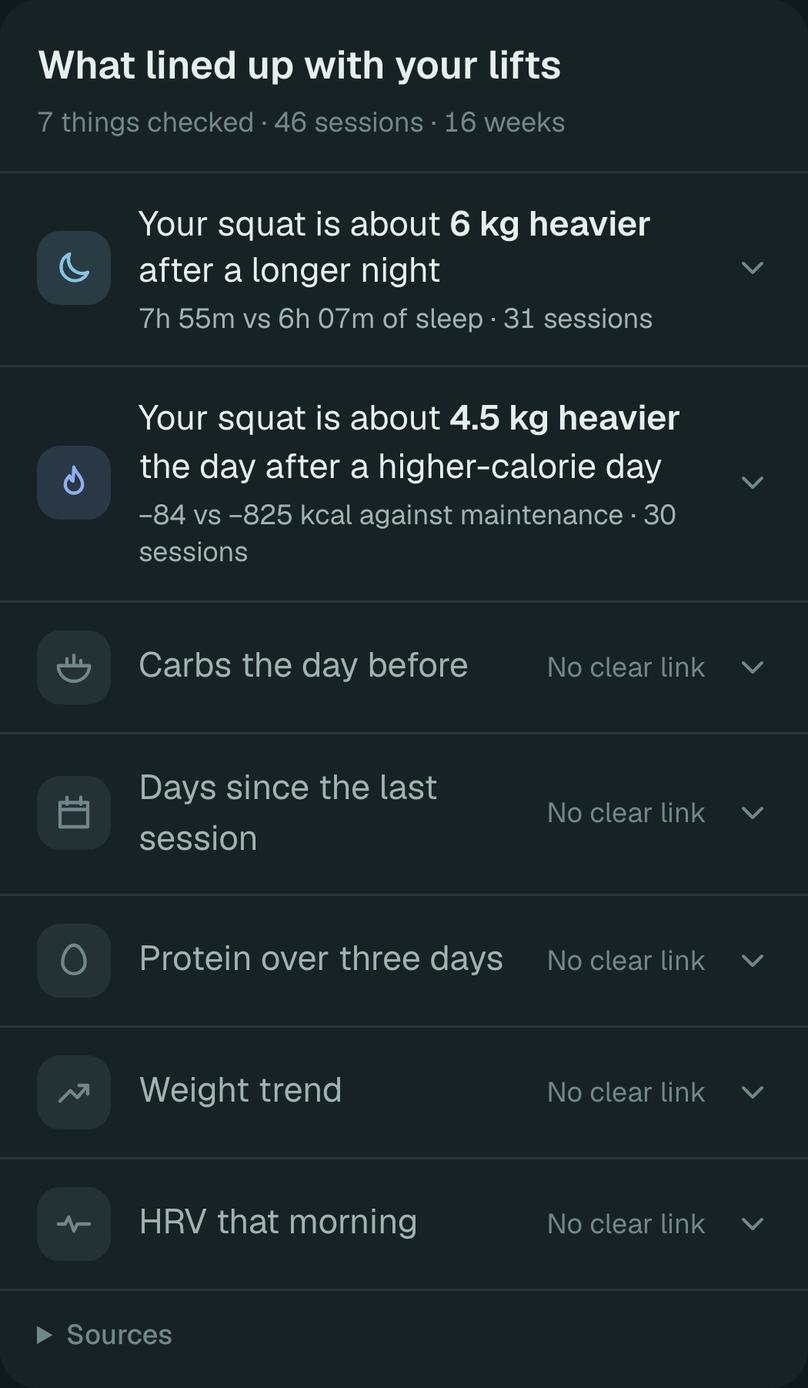
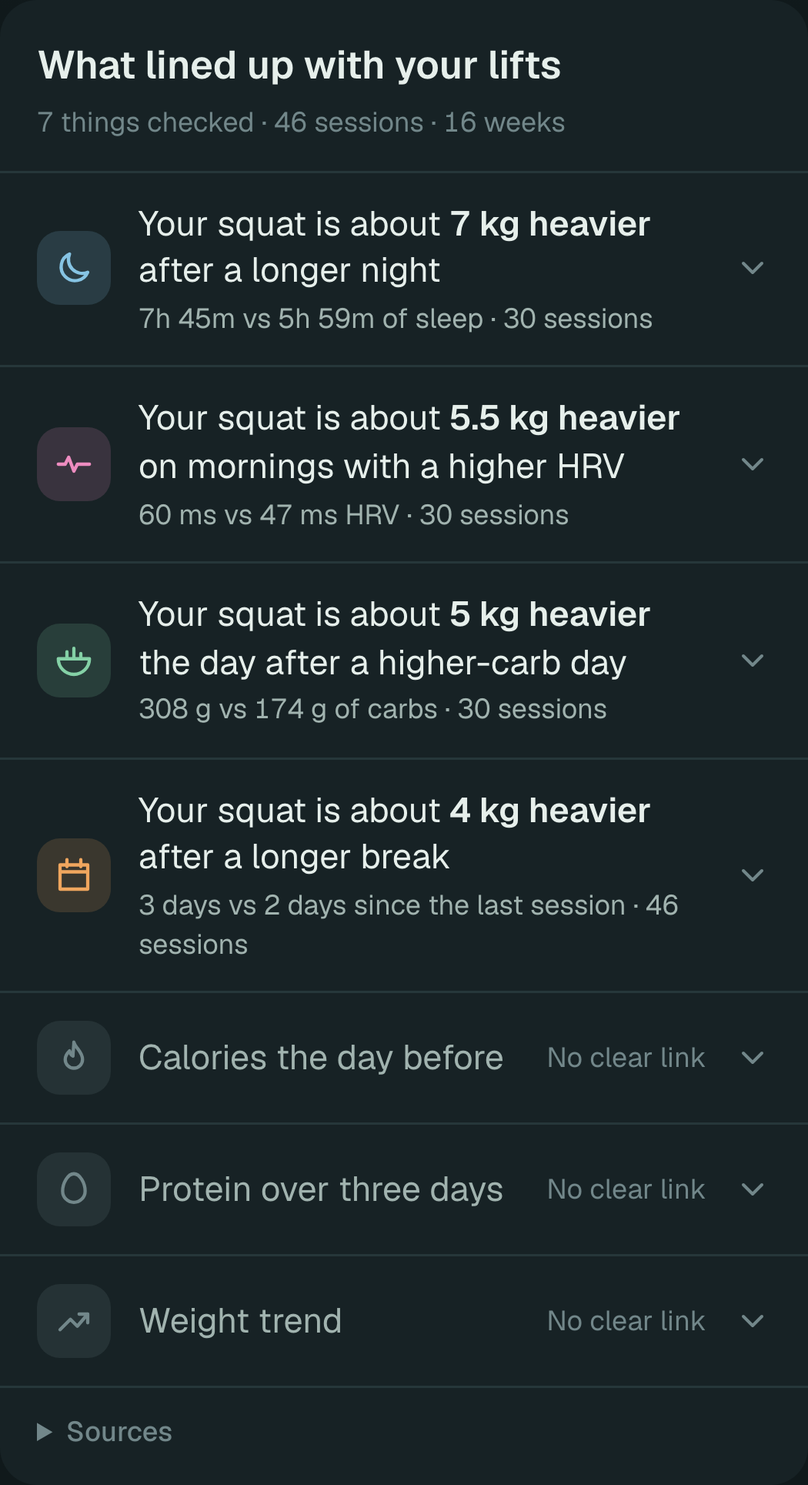
Showcase: four realistic links, carbs included
The founder wanted more of the list to show something, carbs included,
while staying realistic. Four of seven rows now link: sleep, HRV that
morning, carbs the day before and a longer break. Calories, protein and
the weight trend stay quiet, the share a real log might show; protein or
cut speed changing next-day strength has no good evidence behind it.

Carbs needed their own day-to-day swing at much the same calories.
Before, they were a fixed share of calories and the engine could not
tell the two apart. The effects are now summed and rounded to plates
once, each the smallest the engine's strict bar still shows at three
sessions a week. Seed 15 of 200 shows exactly the four links, the
short-sleep finding fires and the weight stays on plan.

- lib/physique/showcaseData.ts: SHOWCASE_EFFECTS; effects summed and
  rounded once; varyMacros; sleep, carbs, break, HRV and fade effects;
  seed 15
- lib/physique/__tests__/showcaseData.test.ts: the four links and
  nothing else
- docs/plan/testers/showcase/: retaken
- docs/plan/testers/showcase.md: what is built in, captions and post
  text with the new numbers
- docs/plan/STATUS.md: showcase row

diff --git a/lib/physique/showcaseData.ts b/lib/physique/showcaseData.ts
@@ -4,14 +4,16 @@
  * captioned as example data, never as someone's own log.
  *
  * The person: 84 kg, cutting towards 74 kg at 0.5% a week, squat and bench
- * three times a week, an Apple Watch on every night. What is built in:
- * - top sets about 3% lighter for each hour of sleep under 7h 12m (at most
- *   6% lighter, at most 1.5% heavier), so sleep is the clearest connection;
- * - top sets 2% heavier after a day of above-median carbs (and so calories),
- *   so food shows too;
- * - the last 4 weeks sleep 48 minutes shorter, with HRV 12% lower and resting
- *   HR 3 bpm higher, and strength fading 1.5% over the last 5 weeks, so the
- *   "Short sleep, lifts not progressing" finding has a cut to catch.
+ * three times a week, an Apple Watch on every night, carbs swinging from day
+ * to day at much the same calories. What is built in (SHOWCASE_EFFECTS):
+ * top sets lighter after shorter nights, after lower-carb days, on lower-HRV
+ * mornings and after a 2-day break rather than the weekend's 3, each by a
+ * few percent; and a last month of nights 48 minutes shorter, with HRV 12%
+ * lower and resting HR 3 bpm higher, and strength fading 1.5% over the last
+ * 5 weeks of the cut, so the "Short sleep, lifts not progressing" finding
+ * has something to catch.
+ * Protein, calories against maintenance and the weight trend move nothing,
+ * so their rows stay quiet, as most rows do in a real log.
  *
  * It is built once for SHOWCASE_REF_END and every date is then moved to end
  * on the day it is loaded. Built for each day instead, the sessions would
@@ -23,7 +25,7 @@
  */
 
 import { addDays, dayDiff, type LocalDate } from "@/lib/dates";
-import { makeScenario, type ScenarioSpec } from "@/lib/physique/fixtures";
+import { gaussian, makeScenario, mulberry32, type ScenarioSpec } from "@/lib/physique/fixtures";
 
 export type ShowcaseScenario = ReturnType<typeof makeScenario>;
 
@@ -31,8 +33,8 @@ export type ShowcaseScenario = ReturnType<typeof makeScenario>;
 export const SHOWCASE_REF_END: LocalDate = "2026-10-22";
 /** Days of history: the 16 weeks Connections reads. */
 export const SHOWCASE_DAYS = 112;
-/** Picked from 40 seeds read by the real engine: sleep comes first and the finding fires, with no link that wasn't built in. */
-export const SHOWCASE_SEED = 5;
+/** Picked from 200 seeds read by the real engine: sleep comes first, the four built-in links show and nothing else does, the finding fires, and the weight stays on plan. */
+export const SHOWCASE_SEED = 15;
 
 /** The scenario before any effect: 16 weeks of an 84 kg cut, squat and bench three times a week, Apple Watch nights. The target stays ahead of the trend, so the cut is still running at the end. */
 export function showcaseSpec(): ScenarioSpec {
@@ -46,25 +48,76 @@ export function showcaseSpec(): ScenarioSpec {
     goal: { ratePctPerWeek: -0.5, targetKg: 74 },
     sleep: { meanH: 7.1, sdH: 0.75, source: "healthkit", loggedShare: 1, hrv: { meanMs: 55, sdPct: 12, rhrBpm: 54, dropFromDay: SHOWCASE_DAYS - 28, dropPct: 12, rhrRiseBpm: 3 } },
     lifts: [
-      { name: "Squat", startE1rm: 155, profile: "linear", changePct: 3, perWeek: 3, cv: 0.015 },
-      { name: "Bench Press", startE1rm: 112, profile: "linear", changePct: 2, perWeek: 3, cv: 0.015 },
+      { name: "Squat", startE1rm: 155, profile: "linear", changePct: 3, perWeek: 3, cv: 0.01 },
+      { name: "Bench Press", startE1rm: 112, profile: "linear", changePct: 2, perWeek: 3, cv: 0.01 },
     ],
   };
 }
 
 // ── Effects ──
 
-/** Every set of every session scaled by `pctFor(date)` %, rounded to 2.5 kg plates. */
-function scaleSessions(sc: ShowcaseScenario, pctFor: (date: LocalDate) => number): ShowcaseScenario {
+/** How strongly each condition moves the top sets, in % of the set, and the data around them. */
+export type ShowcaseEffects = {
+  /** % per hour of sleep the night before, against `sleepRefH`, within [`sleepFloorPct`, `sleepCapPct`]. */
+  sleepPerHour: number;
+  sleepRefH: number;
+  sleepFloorPct: number;
+  sleepCapPct: number;
+  /** % per 100 g of carbs the day before, against the median day, within ±`carbsCapPct`. */
+  carbsPer100g: number;
+  carbsCapPct: number;
+  /** % after 3 or more days since the last session. */
+  longBreakPct: number;
+  /** % per 1% of HRV that morning against the median morning, within ±`hrvCapPct`. */
+  hrvPerPct: number;
+  hrvCapPct: number;
+  /** The last 4 weeks' nights this many hours shorter. */
+  shortMonthH: number;
+  /** Strength fading by `fadePct` % over the last `fadeDays`, as it can late in a long cut. */
+  fadePct: number;
+  fadeDays: number;
+  /** Day-to-day swing of carbs at the same calories (fat makes up the difference), SD in g. */
+  macroSdG: number;
+};
+
+/**
+ * The sizes used, the smallest that the engine's strict bar still shows at
+ * three sessions a week: a few percent each, within the day-to-day swing of
+ * a lifter's top sets, so the list reads like a real person's.
+ */
+export const SHOWCASE_EFFECTS: ShowcaseEffects = {
+  sleepPerHour: 1.8,
+  sleepRefH: 7.2,
+  sleepFloorPct: -6,
+  sleepCapPct: 1.5,
+  carbsPer100g: 2.5,
+  carbsCapPct: 3,
+  longBreakPct: 1,
+  hrvPerPct: 0.06,
+  hrvCapPct: 2.5,
+  shortMonthH: 0.8,
+  fadePct: -1.5,
+  fadeDays: 35,
+  macroSdG: 45,
+};
+
+type Effect = (date: LocalDate) => number;
+
+/** Every set of every session scaled by the effects' summed %, rounded once to 2.5 kg plates. */
+function applyEffects(sc: ShowcaseScenario, effects: readonly Effect[]): ShowcaseScenario {
   return {
     ...sc,
     workouts: sc.workouts.map((w) => {
-      const p = pctFor(w.completedAt.slice(0, 10));
+      const d = w.completedAt.slice(0, 10);
+      const p = effects.reduce((sum, f) => sum + f(d), 0);
       if (!p) return w;
       return { ...w, exercises: w.exercises.map((ex) => ({ ...ex, sets: ex.sets.map((st) => ({ ...st, weight: String(Math.round((parseFloat(st.weight) * (1 + p / 100)) / 2.5) * 2.5) })) })) };
     }),
   };
 }
+
+const clamp = (v: number, lo: number, hi: number) => Math.max(lo, Math.min(hi, v));
+const medianOf = (xs: number[]) => [...xs].sort((a, b) => a - b)[Math.floor(xs.length / 2)] ?? 0;
 
 /** The last `days` nights `hours` shorter, never under 4h 30m asleep. */
 export function shorterNights(sc: ShowcaseScenario, days: number, hours: number): ShowcaseScenario {
@@ -73,31 +126,64 @@ export function shorterNights(sc: ShowcaseScenario, days: number, hours: number)
   return { ...sc, sleepNights: sc.sleepNights.map((n) => (n.date >= from ? { ...n, asleepMin: Math.max(270, n.asleepMin - cut), inBedMin: n.inBedMin == null ? n.inBedMin : Math.max(295, n.inBedMin - cut) } : n)) };
 }
 
-/** Each session `perHour` % lighter for each hour of the night before under `refH`, within [`floorPct`, `capPct`]. */
-export function sleepCost(sc: ShowcaseScenario, perHour: number, refH: number, floorPct: number, capPct: number): ShowcaseScenario {
+/**
+ * Carbs swinging from day to day at the same calories, fat making up the
+ * difference, as a real log does. Without it carbs are a fixed share of
+ * calories, and the two can't be told apart.
+ */
+export function varyMacros(sc: ShowcaseScenario, sdG: number): ShowcaseScenario {
+  const rand = mulberry32(sc.spec.seed + 7919);
+  return {
+    ...sc,
+    foodEntries: sc.foodEntries.map((e) => {
+      const carbsG = Math.max(60, Math.round(e.carbsG + gaussian(rand) * sdG));
+      const fatG = Math.max(25, Math.round(e.fatG - ((carbsG - e.carbsG) * 4) / 9));
+      return { ...e, carbsG, fatG };
+    }),
+  };
+}
+
+/** Sleep the night before: `sleepPerHour` % for each hour against `sleepRefH`. */
+export function sleepEffect(sc: ShowcaseScenario, e: ShowcaseEffects): Effect {
   const hours = new Map(sc.sleepNights.map((n) => [n.date, n.asleepMin / 60]));
-  return scaleSessions(sc, (d) => {
+  return (d) => {
     const h = hours.get(d);
-    return h == null ? 0 : Math.max(floorPct, Math.min(capPct, perHour * (h - refH)));
-  });
+    return h == null ? 0 : clamp(e.sleepPerHour * (h - e.sleepRefH), e.sleepFloorPct, e.sleepCapPct);
+  };
 }
 
-/** Each session `pct` % heavier after a day of more carbs than the median day. */
-export function higherCarbs(sc: ShowcaseScenario, pct: number): ShowcaseScenario {
+/** Carbs the day before: `carbsPer100g` % for each 100 g against the median day. */
+export function carbsEffect(sc: ShowcaseScenario, e: ShowcaseEffects): Effect {
   const carbs = new Map<LocalDate, number>();
-  for (const e of sc.foodEntries) carbs.set(e.date, (carbs.get(e.date) ?? 0) + e.carbsG);
-  const sorted = [...carbs.values()].sort((a, b) => a - b);
-  const mid = sorted[Math.floor(sorted.length / 2)] ?? 0;
-  return scaleSessions(sc, (d) => {
+  for (const f of sc.foodEntries) carbs.set(f.date, (carbs.get(f.date) ?? 0) + f.carbsG);
+  const mid = medianOf([...carbs.values()]);
+  return (d) => {
     const c = carbs.get(addDays(d, -1));
-    return c != null && c > mid ? pct : 0;
-  });
+    return c == null ? 0 : clamp((e.carbsPer100g * (c - mid)) / 100, -e.carbsCapPct, e.carbsCapPct);
+  };
 }
 
-/** Strength fading by `pct` % over the last `days`, reaching it on the last day. */
-export function strengthFade(sc: ShowcaseScenario, days: number, pct: number): ShowcaseScenario {
-  const from = addDays(sc.endDate, -days);
-  return scaleSessions(sc, (d) => Math.max(0, Math.min(1, dayDiff(from, d) / days)) * pct);
+/** Days since the last session: `longBreakPct` % after 3 or more. */
+export function breakEffect(sc: ShowcaseScenario, e: ShowcaseEffects): Effect {
+  const dates = [...new Set(sc.workouts.map((w) => w.completedAt.slice(0, 10)))].sort();
+  const long = new Set(dates.filter((d, i) => i > 0 && dayDiff(dates[i - 1], d) >= 3));
+  return (d) => (long.has(d) ? e.longBreakPct : 0);
+}
+
+/** HRV that morning: `hrvPerPct` % for each 1% against the median morning. */
+export function hrvEffect(sc: ShowcaseScenario, e: ShowcaseEffects): Effect {
+  const hrv = new Map(sc.sleepNights.filter((n) => typeof n.hrvMs === "number").map((n) => [n.date, n.hrvMs as number]));
+  const mid = medianOf([...hrv.values()]);
+  return (d) => {
+    const h = hrv.get(d);
+    return h == null || !(mid > 0) ? 0 : clamp(e.hrvPerPct * (h / mid - 1) * 100, -e.hrvCapPct, e.hrvCapPct);
+  };
+}
+
+/** Strength fading by `fadePct` % over the last `fadeDays`, reaching it on the last day. */
+export function fadeEffect(sc: ShowcaseScenario, e: ShowcaseEffects): Effect {
+  const from = addDays(sc.endDate, -e.fadeDays);
+  return (d) => clamp(dayDiff(from, d) / e.fadeDays, 0, 1) * e.fadePct;
 }
 
 // ── Moving the dates ──
@@ -119,12 +205,15 @@ export function shiftScenario(sc: ShowcaseScenario, n: number): ShowcaseScenario
   return { ...(shiftDeep(data, n) as Omit<ShowcaseScenario, "rand">), rand };
 }
 
+/** The history as built, ending SHOWCASE_REF_END: the spec's data with the month of short nights, the swinging macros and every effect. */
+export function buildShowcase(spec: ScenarioSpec, e: ShowcaseEffects): ShowcaseScenario {
+  let sc = makeScenario(spec);
+  sc = shorterNights(sc, 28, e.shortMonthH);
+  sc = varyMacros(sc, e.macroSdG);
+  return applyEffects(sc, [sleepEffect(sc, e), carbsEffect(sc, e), breakEffect(sc, e), hrvEffect(sc, e), fadeEffect(sc, e)]);
+}
+
 /** The showcase history, ending `today`. */
 export function showcaseScenario(today: LocalDate): ShowcaseScenario {
-  let sc = makeScenario(showcaseSpec());
-  sc = shorterNights(sc, 28, 0.8);
-  sc = sleepCost(sc, 3, 7.2, -6, 1.5);
-  sc = higherCarbs(sc, 2);
-  sc = strengthFade(sc, 35, -1.5);
-  return shiftScenario(sc, dayDiff(SHOWCASE_REF_END, today));
+  return shiftScenario(buildShowcase(showcaseSpec(), SHOWCASE_EFFECTS), dayDiff(SHOWCASE_REF_END, today));
 }

diff --git a/lib/physique/__tests__/showcaseData.test.ts b/lib/physique/__tests__/showcaseData.test.ts
@@ -39,12 +39,11 @@ describe("showcase data", () => {
     expect(effectKg(linked[0].diffPct, lift!.levelKg)).toBeGreaterThanOrEqual(5);
   });
 
-  it("finds one food link and nothing that wasn't built in", () => {
+  it("finds the four links built in and nothing else", () => {
     const { conn } = read(SHOWCASE_REF_END);
     const linked = conn.items.filter((c) => c.state === "linked").map((c) => c.id);
-    expect(linked.filter((id) => id === "carbs" || id === "balance")).toHaveLength(1);
-    expect(linked.filter((id) => id !== "sleep" && id !== "carbs" && id !== "balance")).toEqual([]);
-    expect(conn.items.find((c) => c.id === "protein")?.state).toBe("none");
+    expect([...linked].sort()).toEqual(["carbs", "hrv", "rest", "sleep"]);
+    for (const id of ["protein", "balance", "rate"]) expect(conn.items.find((c) => c.id === id)?.state).toBe("none");
   });
 
   it("catches short sleep on a cut with the lifts down", () => {

diff --git a/docs/plan/STATUS.md b/docs/plan/STATUS.md
@@ -152,7 +152,7 @@ Record wrong verdicts here as `YYYY-MM-DD · rule id · what it said · what was
 | TR11 Reminders in the iPhone app (first build) | done | 2026-10-22 | **Why:** the app's web view has no web push, so the daily nudge and Monday's report never fired in the app; keeping testers logging is the test's first question. **Built:** `@capacitor/local-notifications` 8.3.1 (MIT; Swift checked: UserNotifications only, no required-reason APIs; `iosPrivacy.test.ts` updated); `lib/physique/localReminders.ts` (pure): the next 7 days at the chosen time by the server push's own rules (`todayMissing`, `reminderMessage`, Monday's report), today only while its time is ahead, ids yyyymmdd; `lib/physique/io/nativeReminders.ts`: switch and time on the device (`physique.v1.nativeReminders`, device-only), permission asked when the switch goes on, pending reminders replaced with the plan, cancelled when off or the device's data is cleared, a tap opens the reminder's screen; `components/physique/NativeReminderSync.tsx` (mounted by `NativeShell` in the app only) plans again after a log change (1 s settle), a switch or time change and on return to the app; Profile → Reminders works in the app ("Notifications are off for Gym AI…" when iOS refuses). `/privacy`: in the app nothing is sent. Same Profile UI as G5 (no new screen). **Checked in the simulator** (iPhone 18 Pro, iOS 27.1, against the dev server): the switch brings up iOS's permission prompt; after Allow, iOS held `20261026` (Monday's report: the only one due for an empty profile, as the unit test says); a copy fired 15 s later on the home screen as "Weekly report · 19 to 25 Oct · Your week in numbers, and next week's targets." and a tap opened that week's report (temporary test code removed). Tests: 6 new (`localReminders.test.ts`); `npm run check` 705/705, eslint 0 errors, `npm run build` passes. Not run: `/code-review` (self-reviewed). Needs the TestFlight build to carry the plugin; the web part ships with a push to `main`. Schema impact: one new device-only key. |
 | TR12 Progress and the report say it plainly | done | 2026-10-22 | Its own session; brief in 07. **Why:** the founder couldn't read "Carbs the day before · 312 vs 221 g · Moved with calories · +5 kg on squat", and one week read "Not clear yet", "On plan" and "Weight moving as planned" at once. **Copied from (Mobbin):** WHOOP Behavior Insights (condition as the row, impact on the right, "There isn't a clear … pattern yet" when there's none) and WHOOP's "Lower HRV Today" card ("Your HRV is 10% lower than usual"), Visible's Morning Stability summary rows ("Your Resting HR is lower than your recent average"), Bevel's Recovery insight ("Your Sleep Score dipped to 67%…") and Food Quality Contributors: your own measure first, then the number, then what it's against. **Built:** `lib/physique/connectionWords.ts` (pure): each clear link leads with one sentence, the difference in bold ("Your squat is about **5 kg heavier** the day after a higher-carb day"), then "312 g vs 221 g of carbs · 30 sessions", then "Calories were higher too, so it could be either." when another condition moved on the same days; always the upper third, heavier or lighter; percent when there's no lift or the kilos round to nothing. No-link rows stay quiet ("No clear link"; a merged one says "Counted with carbs"). Engine: each third keeps its raw mean, `movedWithSign` says which way the other moved, the weight-trend condition reads kg a week. `rateVsPlan`: inside plan ± 0.25 is "On plan"; inside only thanks to the rate's margin is "Not clear yet" (the judge's word), so the report tile, Home's "Last 7 days" and the Food and weight finding ("Weight against the plan: not clear yet") agree with the headline. kg first: verdict copy ("Losing 0.2 kg a week (0.2 %) over 28 days (28 weigh-ins) against a planned loss of 0.4 kg"), Home's weight tile ("−0.2 kg a week"), the report's body-weight headline ("−0.20 kg", "this week · −0.25 % of body weight"), its rate row (kg/wk over %/wk, plan in both) and "Where you're heading". Profile: signed in with sync on says "Your log is kept in your account and on this phone." and hides "Move to another phone"; otherwise the move-across line stays; Import lists "MacroFactor, Hevy, Strong, Rep Count or a daily log" (`lib/sync/useSignedIn.ts`). Reminders untouched. `compareText` removed (unused). **Checked** at 390 px, light and dark, with the CONNECTIONS seed on the dev server: Progress, Home and the report all read "Not clear yet" for the founder's week (before: "On plan" on the tile and "Weight moving as planned"); the carbs row reads as above and opens its session strip. Profile checked signed out, signed in without sync and signed in with sync (Playwright, the fake Supabase host answered locally). Tests: `connectionWords.test.ts` (6) and new cases in copy, howItsGoing, tailored, linkedReasons, connections; `npm run check` 711/711, eslint 0 errors, `npm run build` passes. **/code-review medium**, left open: the tile judges the week report's rounded rate and the headline the judge's own, so at exactly the 0.25 boundary they can still differ (a structural fix feeds the tile the judge's read); a gain slower within the margin is a grey tile but an amber finding; Profile shows the signed-out line for a moment before the session is read; a flat rate reads "0.0 kg a week (0.0 %)"; the kg-a-week sum is written in five places. Schema impact: none. |
 | TR9 Sign in from the welcome screen | done | 2026-10-22 | **Earns its place:** a tester who reinstalls, changes phone or opens the web app on a second device saw only "Set up" / "Look around first", so they set up a second goal beside the one in their account or had to find Profile → Account; the analysis needs weeks of history, so it must follow them (MacroFactor, Hevy and WHOOP all sign returning people in from the first screen). **From Mobbin:** Hevy's "Welcome back" (one quiet "New to Hevy? Sign up" line under the main button), WHOOP's one email path for new and returning members; MacroFactor's account-first welcome not copied (accounts are optional here). **Built:** `components/account/SignIn.tsx` (the consent → email → code steps moved out of `app/account/page.tsx` unchanged, now shared); `app/welcome/page.tsx`: "Have an account? Sign in" under the buttons, only when `ACCOUNTS_ENABLED`; `app/welcome/sign-in/page.tsx`: the same steps, then "Getting your data…" until the first sync, then Home (welcome marked seen); an account with nothing logged says "Nothing logged in this account yet" with the email, Set up or Use another email (signs out, back to the email, no second consent); failure says so with Try again. Whether data arrived is judged on what the device holds after the sync (`useHasLoggedAnything` in `lib/physique/io/onboarding.ts`, now shared with `WelcomeRedirect`), not on that run's changes, since the run signing in started may finish first. No tab bar under `/welcome/*`. **Evidence:** `scripts/e2e-accounts.mjs` (fake Supabase, `.claude/launch.json` "dev-accounts-fake" now also sets the fake admin URL and key) 44/44 pass, the PR4/TR1 runs unchanged plus: a fresh device opens on the welcome with Sign in, nothing reaches the account before the tick, lands on Home with the 3 weigh-ins from the old phone and stays there, an empty account says so and Set up opens setup, a typo then Use another email brings the right account down; no page errors; 390px light and dark. `npm run check` 699/699, eslint 0 errors (25 warnings, as before), `npm run build` passes. `/code-review medium`: no findings. Schema impact: none. |
-| Showcase data and screenshots (with TR4) | done | 2026-10-22 | **Earns its place:** strangers decide from one screenshot whether the app sees something they can't; a finding from their own data is what no other app shows (WHOOP and Bevel don't know the lifts, Hevy, Strong and MacroFactor don't see sleep). **Headline:** sleep against the lifts in kg on the squat, then calories the day before on a cut, with the rest reading "No clear link". **Data:** `lib/physique/showcaseData.ts` (pure): an 84 kg cut towards 74 kg, squat and bench 3 times a week, Apple Watch nights; built in are top sets about 3% lighter per hour of sleep under 7h 12m, 2% heavier after a higher-carb day, and a last month with 48 min less sleep, lower HRV and a 1.5% strength fade. Seed 5 of 40 runs through the real engine, chosen because it finds only what was built in. Built for 22 Oct and moved whole to end on the day it is loaded, so the findings read the same on any day (built per day, sessions fall on other weekdays and pair with other nights). Found the old example's sleep effect washing out (0.8%, no link) on the way. **Seed page:** a SHOWCASE preset (`build` builds the whole history). **Screens:** `scripts/showcase-screens.mjs` (Playwright, fresh profile, 390 px at 3×, light and dark, tab bar and dev badge hidden) into `docs/plan/testers/showcase/`; captions and post text, all labelled as example data, in `docs/plan/testers/showcase.md`. Taken on TR12's wording: "Your squat is about 6 kg heavier after a longer night · 7h 55m vs 6h 07m of sleep", "about 4.5 kg heavier the day after a higher-calorie day · −84 vs −825 kcal against maintenance", and the finding "Short sleep, lifts not progressing · 6h 18m a night · Bench Press −4.5 kg, Squat −7.5 kg in 8 weeks" (Nedeltcheva 2010). **Evidence:** `lib/physique/__tests__/showcaseData.test.ts` (6: ends today, sleep first and at least 5 kg, one food link and nothing else, the finding fires, the same on 4 other days, the date move); `npm run check` 717/717; `npm run build` passes. |
+| Showcase data and screenshots (with TR4) | done | 2026-10-22 | **Earns its place:** strangers decide from one screenshot whether the app sees something they can't; a finding from their own data is what no other app shows (WHOOP and Bevel don't know the lifts, Hevy, Strong and MacroFactor don't see sleep). **Headline:** sleep against the lifts in kg on the squat, then calories the day before on a cut, with the rest reading "No clear link". **Data:** `lib/physique/showcaseData.ts` (pure): an 84 kg cut towards 74 kg, squat and bench 3 times a week, Apple Watch nights; built in are top sets about 3% lighter per hour of sleep under 7h 12m, 2% heavier after a higher-carb day, and a last month with 48 min less sleep, lower HRV and a 1.5% strength fade. Seed 5 of 40 runs through the real engine, chosen because it finds only what was built in. Built for 22 Oct and moved whole to end on the day it is loaded, so the findings read the same on any day (built per day, sessions fall on other weekdays and pair with other nights). Found the old example's sleep effect washing out (0.8%, no link) on the way. **Seed page:** a SHOWCASE preset (`build` builds the whole history). **Screens:** `scripts/showcase-screens.mjs` (Playwright, fresh profile, 390 px at 3×, light and dark, tab bar and dev badge hidden) into `docs/plan/testers/showcase/`; captions and post text, all labelled as example data, in `docs/plan/testers/showcase.md`. Taken on TR12's wording: "Your squat is about 6 kg heavier after a longer night · 7h 55m vs 6h 07m of sleep", "about 4.5 kg heavier the day after a higher-calorie day · −84 vs −825 kcal against maintenance", and the finding "Short sleep, lifts not progressing · 6h 18m a night · Bench Press −4.5 kg, Squat −7.5 kg in 8 weeks" (Nedeltcheva 2010). **Evidence:** `lib/physique/__tests__/showcaseData.test.ts` (6: ends today, sleep first and at least 5 kg, one food link and nothing else, the finding fires, the same on 4 other days, the date move); `npm run check` 717/717; `npm run build` passes. **22 Oct, more of the list (founder: "the whole data to show something, including carbs, but realistic"):** four of seven rows now link: sleep +7 kg, HRV that morning +5.5, carbs the day before +5 (308 vs 174 g), a longer break +4. Calories, protein and the weight trend stay "No clear link", the believable share. Carbs needed their own day-to-day swing at much the same calories (`varyMacros`); before, they were a fixed share of calories and the two couldn't be told apart. The effects are now summed and rounded to plates once (`SHOWCASE_EFFECTS`), each the smallest the engine's strict bar still shows at three sessions a week. A 5-day week was tried and dropped: single-lift days are noisier, and only Monday follows a long break. Seed 15 of 200 is the one where exactly the four links show, the finding fires (6h 29m · Bench −4.5 kg, Squat −2.5 kg) and the weight stays on plan (−0.4 kg a week, 1 kg to go); seed 55 had stalled the cut. Screens retaken; captions and post text updated. |
 
 ## M2 — Hardening
 | Ticket | Status | Date | Evidence / notes |

diff --git a/docs/plan/testers/showcase.md b/docs/plan/testers/showcase.md
@@ -4,15 +4,18 @@ What the app finds in a log, shown before a tester has 16 weeks of their own. Th
 
 ## What the data is, and why this finding
 
-Sleep against the lifts, in kg on the person's own squat, is the headline. Everyone has short nights, and the thing to do about it is plain. No other app gives it: WHOOP and Bevel score recovery but don't know the lifts, and Hevy, Strong and MacroFactor don't see sleep. Calories the day before is second: on a cut it needs the adaptive maintenance estimate and the lifts together, which no other app holds. The rows reading "No clear link" are what make it believable: the app doesn't make everything into a finding.
+Sleep against the lifts, in kg on the person's own squat, is the headline. Everyone has short nights, and the thing to do about it is plain. No other app gives it: WHOOP and Bevel score recovery but don't know the lifts, and Hevy, Strong and MacroFactor don't see sleep. Under it, three more a lifter can act on: HRV that morning, carbs the day before, and the break since the last session. Four of seven link, the size a real log might show. The three reading "No clear link" (calories, protein, weight trend) are what make it believable: the app doesn't make everything into a finding.
 
 `lib/physique/showcaseData.ts` builds 16 weeks:
 - **The person:** 84 kg, cutting towards 74 kg at 0.5% a week, squat and bench three times a week, Apple Watch nights.
-- **Built in:**
-  - top sets about 3% lighter for each hour of sleep under 7h 12m;
-  - top sets 2% heavier after a higher-carb (so higher-calorie) day;
+- **Built in (`SHOWCASE_EFFECTS`), each a few percent of a top set:**
+  - shorter nights the night before;
+  - lower-carb days the day before, with carbs swinging at much the same calories (as in a real log, so carbs and calories can be told apart);
+  - lower-HRV mornings;
+  - a 2-day break against the weekend's 3;
   - a last month with 48 minutes less sleep, lower HRV and higher resting HR, and strength fading 1.5%.
-- **Seed:** 5 of 40, picked because the engine finds only what was built in.
+- **Not built in:** protein, calories against maintenance and the weight trend move nothing.
+- **Seed:** 15 of 200, the one where the engine finds exactly the four built-in links, the finding fires and the weight stays on plan.
 - **Dates:** the data is moved to end on the day it's loaded, so it reads the same on any day.
 - **Test:** `lib/physique/__tests__/showcaseData.test.ts`.
 
@@ -20,16 +23,22 @@ Sleep against the lifts, in kg on the person's own squat, is the headline. Every
 
 | File | Caption |
 |---|---|
-| `connections-*.png` | What the app found in 16 weeks of example data: the squat about 6 kg heavier after a longer night, and 4.5 kg heavier the day after eating near maintenance. Carbs, protein, rest days, cut speed and HRV: no clear link. |
+| `connections-*.png` | What the app found in 16 weeks of example data. The squat was about 7 kg heavier after a longer night, 5.5 kg heavier on higher-HRV mornings, 5 kg heavier the day after a higher-carb day, and 4 kg heavier after a longer break. Calories, protein and the weight trend: no clear link. |
 | `connection-open-*.png` | Tap a line to see the sessions behind it: each dot is one session against that lift's own usual. |
-| `finding-open-*.png` | When the last 4 weeks drift, it says so, with the study behind it: sleep down to 6h 18m on a cut, squat down 7.5 kg in 8 weeks. |
-| `progress-*.png` | The whole Progress screen on the example: the goal, what lined up with the lifts, the last 4 weeks, everything over time. |
+| `finding-open-*.png` | When the last 4 weeks drift, it says so, with the study behind it: sleep down to 6h 29m on a cut, bench down 4.5 kg and squat 2.5 kg in 8 weeks. |
+| `progress-*.png` | The whole Progress screen on the example: the cut on plan with 1 kg to go, what lined up with the lifts, the last 4 weeks, and everything over time (sleep and HRV dipping in the last month). |
 
 ## Post text (with the screenshots)
 
 > **What it finds** (example data, made up so you can see it before you have 16 weeks of your own)
 >
-> Over 16 weeks of a cut, this example lifter's squat ran about 6 kg heavier after a longer night (7h 55m vs 6h 07m), and 4.5 kg heavier the day after eating near maintenance than after an 825 kcal deficit. Carbs, protein, rest days and HRV showed no clear link, and it says so rather than guessing. When their sleep slipped to 6h 18m for a month and the squat dropped 7.5 kg, it flagged it, with the study on cutting short of sleep.
+> Over 16 weeks of a cut, this example lifter's squat ran:
+> - about 7 kg heavier after a longer night (7h 45m vs 5h 59m);
+> - 5.5 kg heavier on higher-HRV mornings;
+> - 5 kg heavier the day after a higher-carb day (308 g vs 174 g);
+> - 4 kg heavier after the weekend's longer break.
+>
+> Calories, protein and the weight trend showed no clear link, and it says so rather than guessing. When their sleep slipped to 6h 29m for a month and the bench dropped 4.5 kg, it flagged it, with the study on cutting short of sleep.
 >
 > None of that is advice; it's what the log shows. Your own version starts filling in after a few weeks of logging.
 
